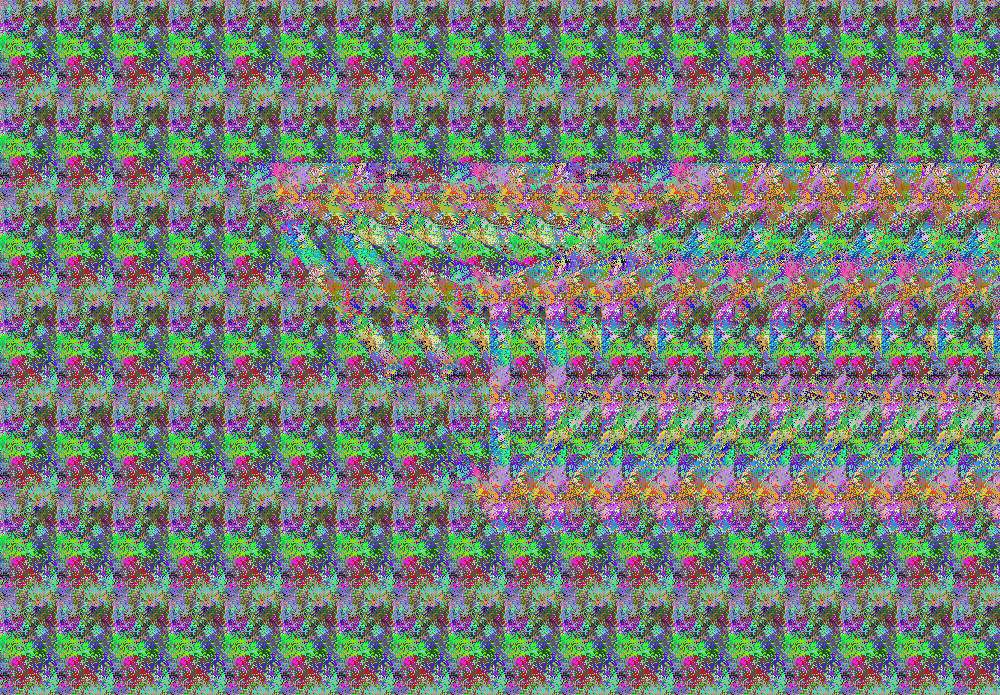
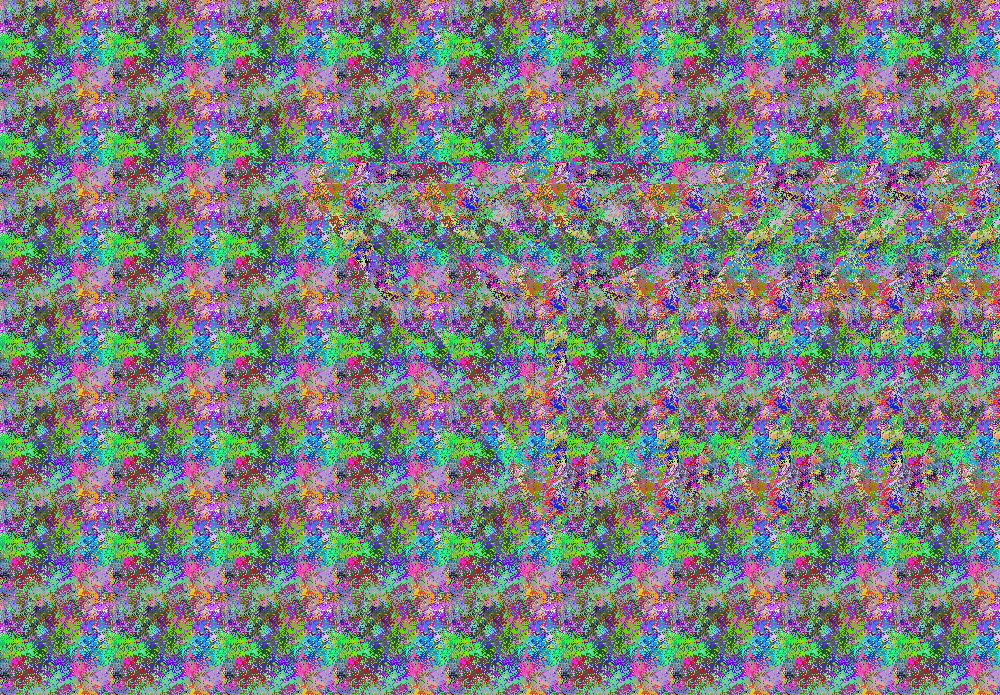
fixed algo

diff --git a/autostereogram.go b/autostereogram.go
@@ -24,9 +24,9 @@ func NewASG(pat *Pattern, dmap *image.Gray) image.Image {
 			// larger, darker is closer ; smaller, whiter is far away.
 			z := int(dmap.GrayAt(xz, y).Y)
 			// when both eyes point to xz, the distance between the points where the rays intersect the image is 2*dx
-			dx := (z * L) / ((z + l) * 2)
-			// this x-dx is the left eye intersect
-			x := xz - dx
+			dx := (z * L) / (z + l)
+			// this x-dx/2 is the left eye intersect
+			x := xz - dx/2
 			if x > 0 {
 				// get pixel from the left eye intersect ...
 				c := rgba.At(x, y)
